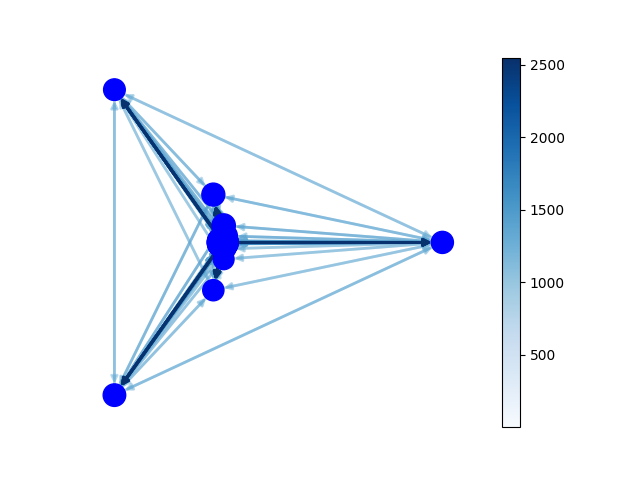
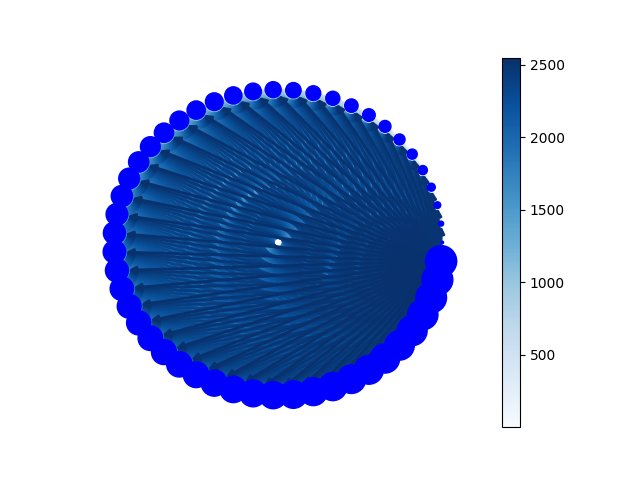
Added BEC graph

Changed region(s): [[0.1562, 0.1562, 0.7188, 0.875]]

diff --git a/BEC_Data/graph_viz.py b/BEC_Data/graph_viz.py
@@ -35,7 +35,7 @@ def generate_graph(file_name):
     return graph, label, condensate
 
 def graph_visualize(graph,label):
-    layout = nx.layout.spectral_layout(graph)
+    layout = nx.layout.circular_layout(graph)
     node_size = [3 + 10 * i for i in range(len(graph))]
     M = graph.number_of_edges()
     edge_colors = range(2,M+2)
